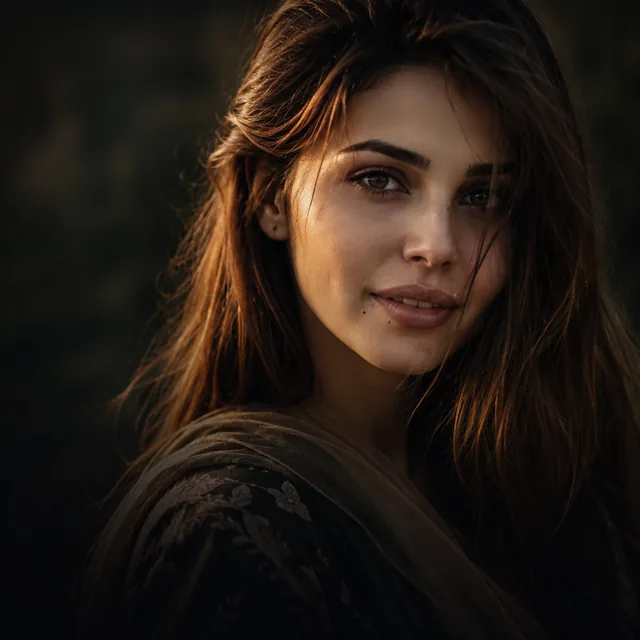
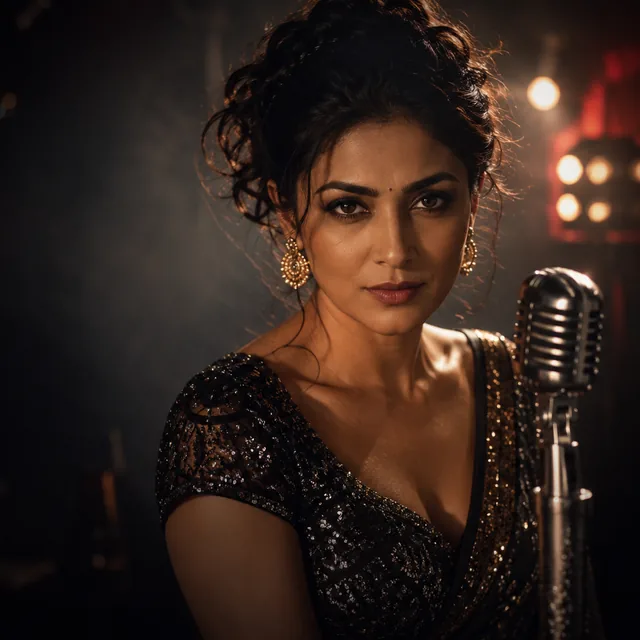
Redesign character cards to show the full cutout, not a profile picture
CharacterCard now shows the full character banner image (with name
overlaid, poster-style) instead of a small circular avatar, across the
Shelf, landing carousel, and Studio. Falls back to the square avatar
crop for the 2 characters without a banner. Also swap in a new photo
for Meher Qureshi. Favicon.ico was already replaced by the user with
their custom "C" mark; Next.js picks it up automatically, no code
change needed.

diff --git a/src/components/CharacterCard.tsx b/src/components/CharacterCard.tsx
@@ -1,8 +1,8 @@
 import Link from "next/link";
+import Image from "next/image";
 import type { Character } from "@/lib/types";
-import Avatar from "@/components/Avatar";
 import Chip from "@/components/Chip";
-import { ARCHETYPE_HUE, ARCHETYPE_LABEL, LICENSE_HUE, LICENSE_LABEL, compactNumber, money } from "@/lib/format";
+import { ARCHETYPE_HUE, ARCHETYPE_LABEL, LICENSE_HUE, LICENSE_LABEL, hsl, compactNumber, money } from "@/lib/format";
 
 export default function CharacterCard({
   character,
@@ -11,36 +11,59 @@ export default function CharacterCard({
   character: Character;
   makerName?: string;
 }) {
+  const image = character.bannerUrl ?? character.imageUrl;
+  const hue = ARCHETYPE_HUE[character.archetype];
+
   return (
     <Link
       href={`/characters/${character.id}`}
-      className="poster-card rounded-md p-4 flex flex-col gap-3 h-full"
+      className="group poster-card rounded-md overflow-hidden flex flex-col h-full"
     >
-      <div className="flex items-start gap-3">
-        <Avatar hue={character.avatarHue} label={character.name} src={character.imageUrl} size={44} />
-        <div className="min-w-0 flex-1">
-          <h3 className="reel-title text-lg leading-tight truncate">{character.name}</h3>
-          {makerName && <p className="text-[11px] text-grey truncate">by {makerName}</p>}
+      <div className="relative aspect-[4/3] shrink-0 overflow-hidden">
+        {image ? (
+          <Image
+            src={image}
+            alt={character.name}
+            fill
+            sizes="(max-width: 640px) 260px, 320px"
+            className={`object-cover transition-transform duration-300 group-hover:scale-105 ${
+              character.bannerUrl ? "object-[68%_center]" : "object-center"
+            }`}
+          />
+        ) : (
+          <div
+            className="absolute inset-0"
+            style={{
+              background: `linear-gradient(135deg, ${hsl(hue, 60, 22)}, ${hsl(hue, 70, 8)})`,
+            }}
+          />
+        )}
+        <div className="absolute inset-0 bg-gradient-to-t from-black/90 via-black/15 to-transparent" />
+        <div className="absolute bottom-0 left-0 right-0 p-3">
+          <h3 className="reel-title text-xl leading-tight text-ink truncate">{character.name}</h3>
+          {makerName && <p className="text-[11px] text-ink/70 truncate">by {makerName}</p>}
         </div>
       </div>
 
-      <div className="flex flex-wrap gap-1.5">
-        <Chip label={ARCHETYPE_LABEL[character.archetype]} hue={ARCHETYPE_HUE[character.archetype]} />
-        <Chip label={LICENSE_LABEL[character.licenseType]} hue={LICENSE_HUE[character.licenseType]} />
-      </div>
+      <div className="p-4 flex flex-col gap-3 flex-1">
+        <div className="flex flex-wrap gap-1.5">
+          <Chip label={ARCHETYPE_LABEL[character.archetype]} hue={ARCHETYPE_HUE[character.archetype]} />
+          <Chip label={LICENSE_LABEL[character.licenseType]} hue={LICENSE_HUE[character.licenseType]} />
+        </div>
 
-      <p className="text-sm text-grey italic leading-snug flex-1">&ldquo;{character.tagline}&rdquo;</p>
+        <p className="text-sm text-grey italic leading-snug flex-1">&ldquo;{character.tagline}&rdquo;</p>
 
-      <div className="flex items-center justify-between text-xs text-grey border-t border-line pt-2">
-        <span>
-          <b className="text-ink">{character.stats.castings}</b> castings
-        </span>
-        <span>
-          <b className="text-ink">{compactNumber(character.stats.fans)}</b> fans
-        </span>
-        <span className="text-accent font-semibold">
-          {character.stats.earnings > 0 ? money(character.stats.earnings) : "not yet"}
-        </span>
+        <div className="flex items-center justify-between text-xs text-grey border-t border-line pt-2">
+          <span>
+            <b className="text-ink">{character.stats.castings}</b> castings
+          </span>
+          <span>
+            <b className="text-ink">{compactNumber(character.stats.fans)}</b> fans
+          </span>
+          <span className="text-accent font-semibold">
+            {character.stats.earnings > 0 ? money(character.stats.earnings) : "not yet"}
+          </span>
+        </div>
       </div>
     </Link>
   );